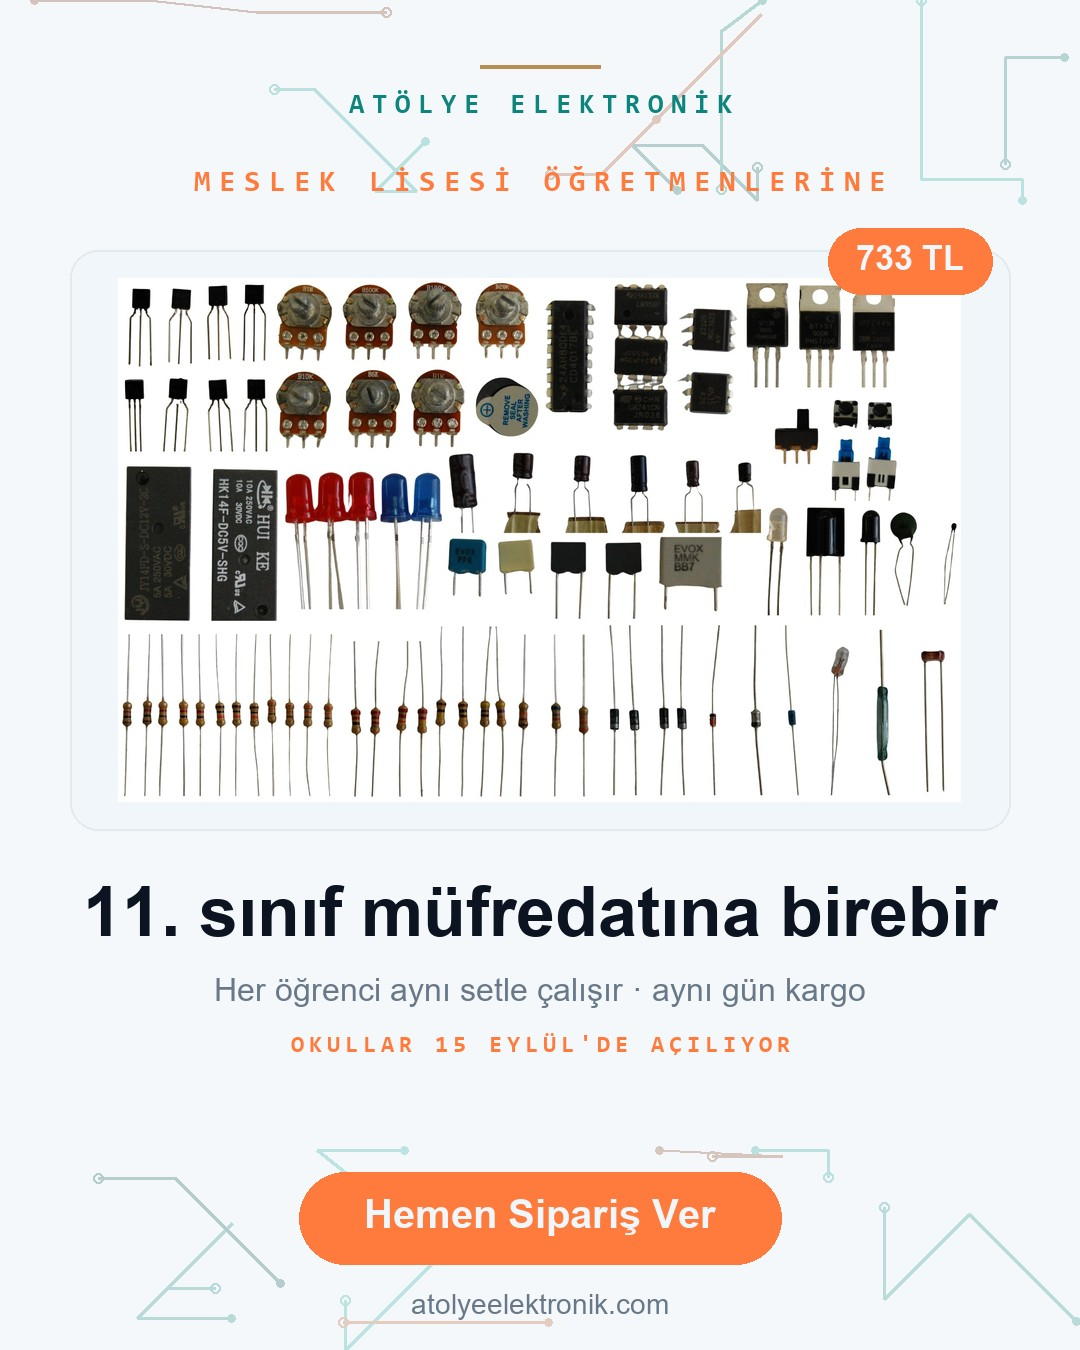
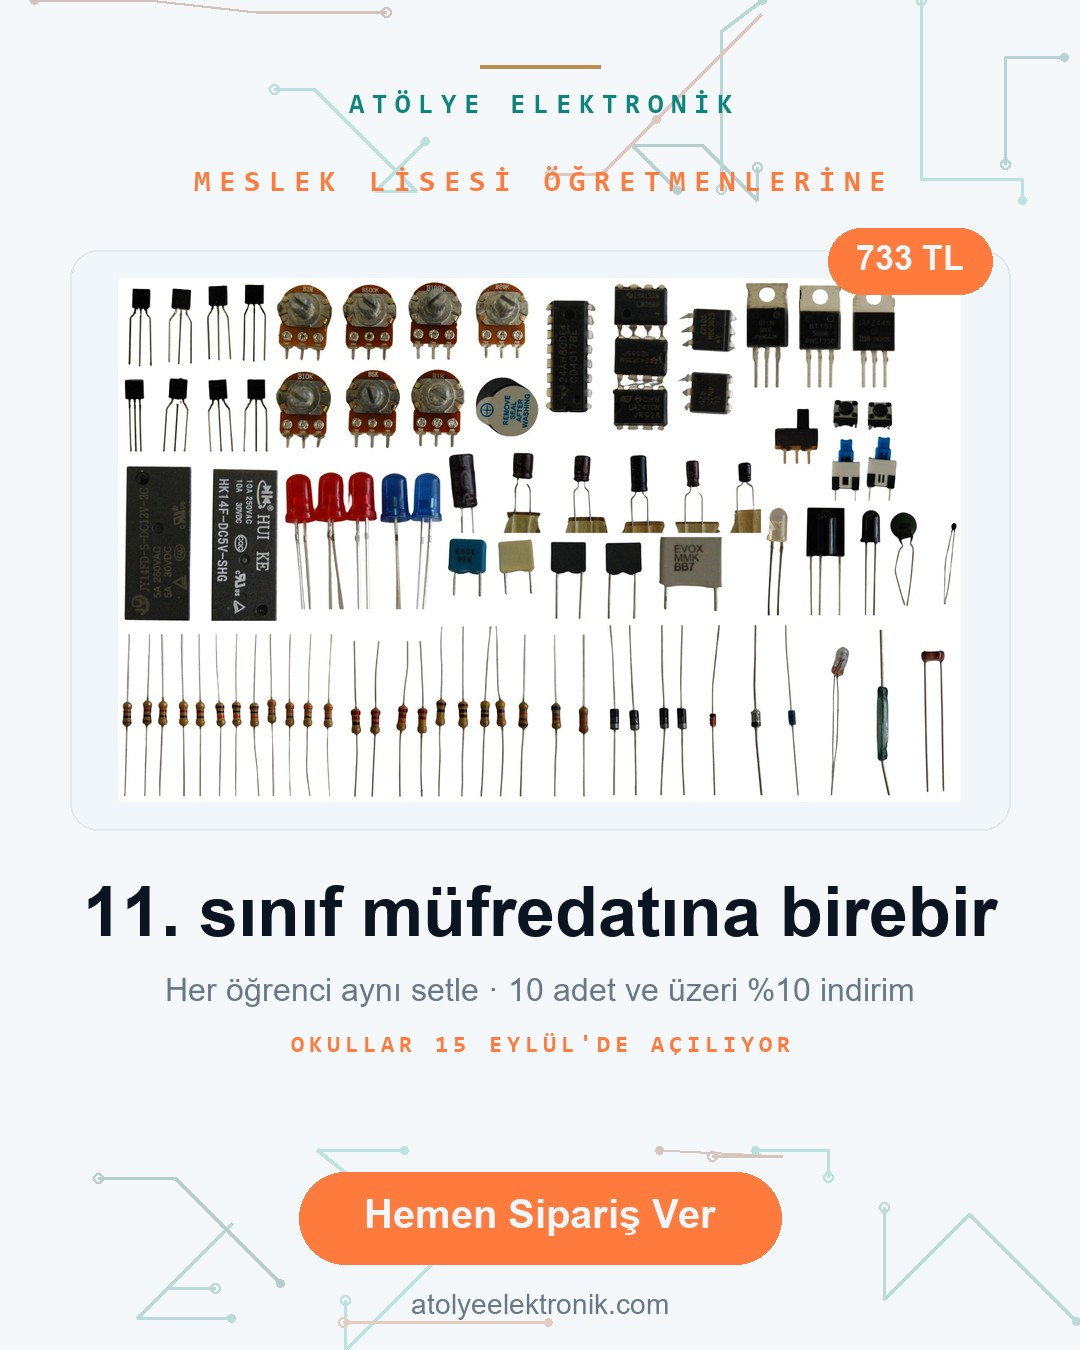
feat: toplu siparis indirimi - paketler kademeli, 10+ adet otomatik %10
Sinif paketleri tekli fiyata gore yalniz %2,5-3,5 ucuzdu; 30 adet alan
ogretmen icin tesvik sayilmaz. Iki mekanizma kuruldu, bilerek ayri:

1) Defterler -> paket varyant fiyati kademeli: 10'lu %6 (893), 20'li %9
   (1.729), 30'lu %12 (2.508). Oran secimi 30'luda gercek tesvik olustursun
   ama paket fiyati zam oncesinin (2.473,50) ustunde kalsin diye - kupon
   korumasi bozulmuyor.

2) Paket varyanti olmayan urunler -> Shopify otomatik indirimi
   '10 adet ve uzeri %10', Egitim Setleri + Hirdavat + Hazir Proje Setleri
   koleksiyonlarinda.

Defterler otomatik indirimin DISINDA, kasitli: aksi halde 10 tekli defter
(855 TL) sinif paketinden (893 TL) ucuza gelir ve paket mantigi coker.

Gorsellerde defter rozeti 'ogrenci basina 84 TL', diger uc urunde destek
cumlesi '10 adet ve uzeri %10 indirim'.

Changed region(s): [[0.1528, 0.7156, 0.8556, 0.7467]]

diff --git a/tools/meta_ogretmen_gorsel.py b/tools/meta_ogretmen_gorsel.py
@@ -50,7 +50,9 @@ CDN = "https://cdn.shopify.com/s/files/1/0801/9692/7717/files/"
 # kuponunu nötrleyen oran). Fiyat rozeti bilerek var: satış
 # görselinde rakam görmeyen kullanıcı tıklamıyor, fiyatı merak edip kaydırıyor.
 # Defterde birim "öğrenci başına" — öğretmenin karar verdiği birim bu, 2.751 TL
-# yerine 92 TL görmek kararı kolaylaştırıyor.
+# yerine 84 TL görmek kararı kolaylaştırıyor. Sınıf paketlerinde kademeli
+# toplu indirim var (%6/%9/%12); paketi olmayan ürünlerde 10 adet ve üzeri
+# otomatik %10.
 REKLAMLAR = [
     {
         "dosya": "meta-ogretmen-defter.png",
@@ -59,9 +61,9 @@ REKLAMLAR = [
         # Bu kare TY onayindan gecen, amblemsiz surum.
         "foto": "https://cdn.dsmcdn.com/ty1905/prod/QC_PREP/20260817/16/"
                 "933fe5df-927d-3c53-a0e2-770fbd910a0e/1_org_zoom.jpg",
-        "rozet_fiyat": "öğrenci başına 92 TL",
+        "rozet_fiyat": "öğrenci başına 84 TL",
         "baslik": "Sınıfın defteri tek siparişte",
-        "destek": "30'lu paket 2.751 TL · tek fatura · aynı gün kargo",
+        "destek": "30'lu paket 2.508 TL · tek fatura · aynı gün kargo",
         "kategori": "STAJ VE TEMRİN DEFTERİ",
     },
     {
@@ -69,7 +71,7 @@ REKLAMLAR = [
         "foto": CDN + "Takimcantasi.png?v=1785258195",
         "rozet_fiyat": "2.125 TL",
         "baslik": "Atölye dersine hazır sınıf",
-        "destek": "17 parça tam set · sınıf adedi kadar tek seferde",
+        "destek": "17 parça tam set · 10 adet ve üzeri %10 indirim",
         "kategori": "MESLEK LİSESİ TAKIM ÇANTASI",
     },
     {
@@ -77,7 +79,7 @@ REKLAMLAR = [
         "foto": CDN + "EndElkhepsi.webp?v=1782335968",
         "rozet_fiyat": "733 TL",
         "baslik": "11. sınıf müfredatına birebir",
-        "destek": "Her öğrenci aynı setle çalışır · aynı gün kargo",
+        "destek": "Her öğrenci aynı setle · 10 adet ve üzeri %10 indirim",
         "kategori": "ENDÜSTRİYEL ELEKTRONİK SETİ",
     },
     {
@@ -85,7 +87,7 @@ REKLAMLAR = [
         "foto": CDN + "Baslangicseti.png?v=1785260927",
         "rozet_fiyat": "870 TL",
         "baslik": "Proje dersine hazır set",
-        "destek": "46 parça · Türkçe kaynak ve devre örnekleri",
+        "destek": "46 parça · 10 adet ve üzeri %10 indirim",
         "kategori": "ARDUINO BAŞLANGIÇ SETİ",
     },
 ]
